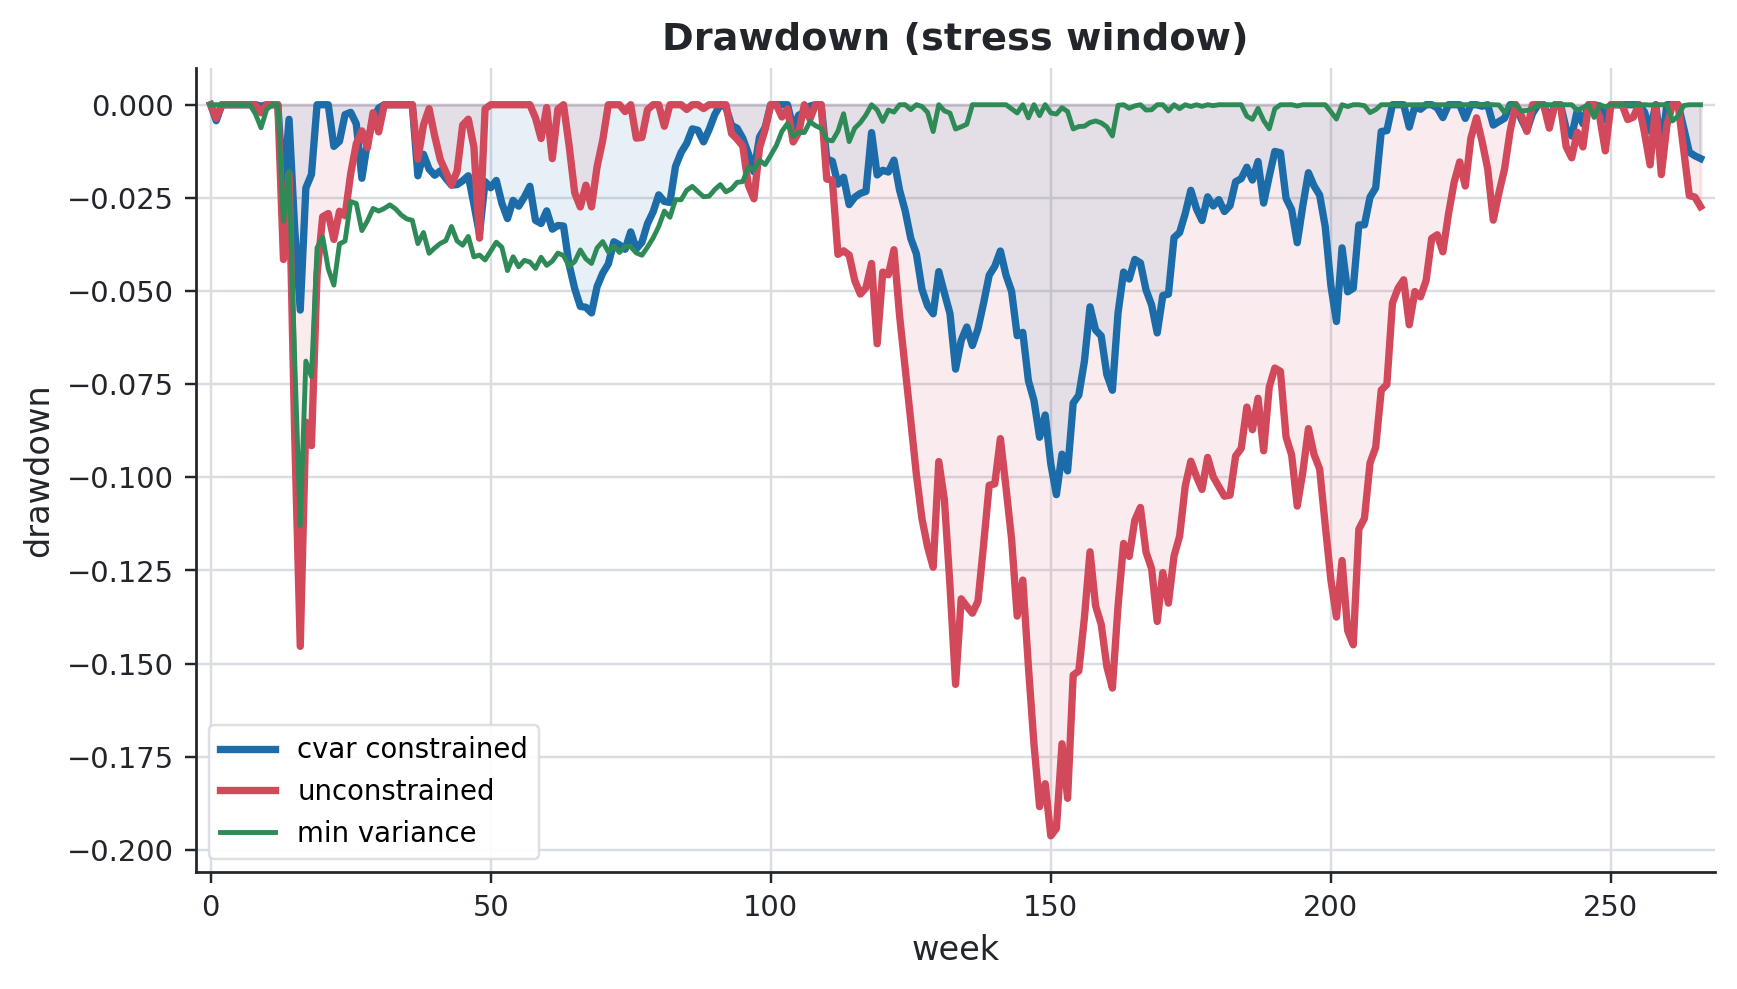
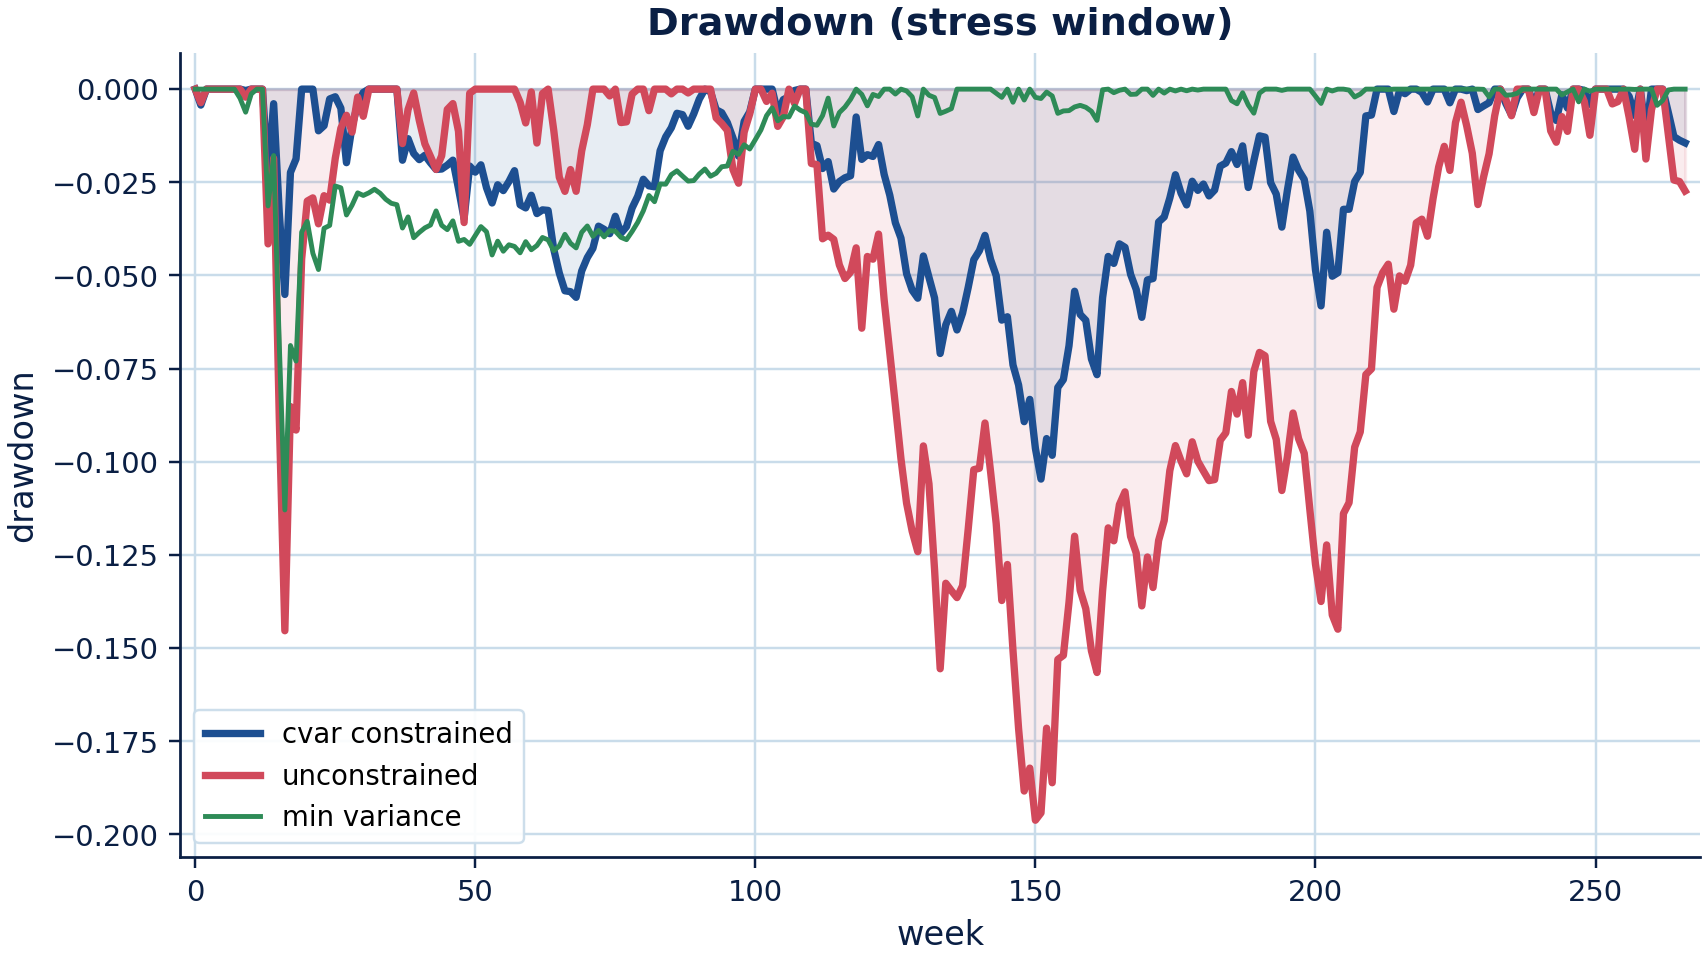
Columbia-themed figures + referee fixes; reconstruct CVaR hero figure
- Refined Columbia palette in plots.py (constrained allocator = Columbia navy,
  navy ink axes, Columbia-blue grid; semantic min-variance green / unconstrained red)
- Reconstruct figure_cvar_hero from authoritative table values (scripts/make_hero_figure.py)
- Regenerate all report figures; compact padding
- Paper: fix intro/Section 5 coupling-bug contradiction, colon-as-period copy-edit,
  table column-count fixes

Changed region(s): [[0.0, 0.0605, 0.9941, 0.9384], [0.3728, 0.0, 0.7456, 0.0605], [0.5281, 0.9384, 0.5903, 0.999]]

diff --git a/paper/main.tex b/paper/main.tex
@@ -76,18 +76,22 @@ to absorb, had no mechanical reason to rotate into Treasuries or cash when the V
 tripled overnight.  Absent a tail limit, the policy kept holding equities through
 the worst losses.  An otherwise-identical allocator carrying an explicit
 Conditional Value-at-Risk (CVaR) limit had already rotated into the cash/rates leg
-before the trough and emerged with roughly half the drawdown. 11.8\% peak-to-trough
+before the trough and emerged with roughly half the drawdown: 11.8\% peak-to-trough
 versus 20.6\% for its unconstrained twin (Table~\ref{tab:stress}).
 
 That difference is a result, not the headline. An explicit CVaR constraint is
 a safety layer that cuts tail losses of a \emph{learned} allocator without
 sacrificing risk-adjusted return.  There is, however, a catch.  In the first
 model-free implementation we tried, a standard Lagrangian
-actor--critic, the constraint was completely inert.  The Lagrange multiplier stayed pinned near zero,
-so the constrained policy collapsed onto its unconstrained twin.  The culprit is a subtle scale mismatch that we describe,
-name, and fix in Section~\ref{sec:coupling}. It is likely present in any
-Lagrangian RL system that standardises the return advantage but not the cost
-advantage.
+actor--critic, the \emph{dual channel was inert}: the Lagrange multiplier stayed
+pinned near zero, so the constraint exerted no explicit tail pressure through the
+mechanism that was supposed to enforce it. The culprit is a subtle scale mismatch
+that we describe, name, and fix in Section~\ref{sec:coupling}. It is likely present
+in any Lagrangian RL system that standardises the return advantage but not the cost
+advantage. (As Section~\ref{sec:coupling} shows, the constrained \emph{architecture}
+still regularises the tail through its safety-critic and projection structure even
+when the multiplier is inert; the policies are \emph{not} numerically identical, but
+the Lagrangian mechanism itself never engages.)
 
 Reinforcement learning for portfolio allocation is usually evaluated on return
 or Sharpe ratio, with risk handled implicitly.  Practitioners, however, manage
@@ -168,7 +172,7 @@ representation admits a convex LP (we include this as a baseline) and a differen
 penalty via \texttt{topk}.
 
 \paragraph{RL for portfolio management}
-The dominant pattern in RL-for-portfolio literature is. Train on a single historical
+The dominant pattern in RL-for-portfolio literature is to train on a single historical
 window, evaluate on one held-out test split, and compare against equal-weight or
 buy-and-hold.
 Jiang et al.~\cite{jiang2017deep} introduce the EIIE architecture for cryptocurrency
@@ -230,8 +234,8 @@ weights $w_t$ on the long-only simplex. The environment projects $w_t$ onto the
 admissible set $\mathcal{W}$ (max weight 0.40, turnover cap 0.50, optional cash
 floor), charges proportional cost $c\lVert w_t - w_{t-1}\rVert_1$ ($c=5$\,bps), and
 realises $r_t = w_t^{\top}\rho_t - c\lVert w_t - w_{t-1}\rVert_1$, where $\rho_t$
-are next-week asset returns. Features at $t$ use only $\rho_{<t}$ (no look-ahead.
-Enforced by tests).
+are next-week asset returns. Features at $t$ use only $\rho_{<t}$ (no look-ahead;
+enforced by tests).
 
 \paragraph{Constrained objective (CMDP)} A \emph{constrained Markov Decision
 Process} (CMDP)~\cite{achiam2017cpo} augments the standard MDP with one or more
@@ -268,7 +272,7 @@ problem.
 $\mathcal{L}$ is a differentiable function of the rollout, so the policy is trained
 by exact back-propagation through the simplex map and the reward, no score-function
 estimator. With net returns $r_t = w_t^{\top}\rho_t - c\lVert w_t-w_{t-1}\rVert_1$
-and tail set $\mathcal{T}=\{t. R_t \text{ among the worst } \lceil(1-\alpha)T\rceil
+and tail set $\mathcal{T}=\{t: R_t \text{ among the worst } \lceil(1-\alpha)T\rceil
 \text{ of the window}\}$,
 \begin{equation}
 \frac{\partial \mathcal{L}}{\partial \theta}
@@ -294,9 +298,9 @@ anchor (a strong, regime-robust prior). Training learns a state-dependent tilt.
 Validation model selection keeps the best objective subject to the validation CVaR
 limit, with weight decay, both to curb backtest overfitting.
 
-\paragraph{Baselines} Deterministic, re-estimated weekly. Cash, equal weight,
+\paragraph{Baselines} Deterministic, re-estimated weekly: cash, equal weight,
 inverse vol, minimum variance, mean--variance, risk parity, and a min-CVaR
-Rockafellar--Uryasev LP~\cite{rockafellar2000optimization}. Learned. Model-free
+Rockafellar--Uryasev LP~\cite{rockafellar2000optimization}. Learned: model-free
 A2C, PPO~\cite{schulman2017ppo} (clipped surrogate, GAE) and SAC~\cite{haarnoja2018soft}
 (off-policy, twin critics, auto-tuned entropy), and the unconstrained differentiable
 allocator ($\lambda=0$).
@@ -310,7 +314,7 @@ otherwise, using the existing OOS paths without any refitting.
 
 \emph{Threshold sensitivity.} Because the switch depends on two labelling
 thresholds, we sweep them ($\text{vol-quantile}\in\{0.65,\dots,0.85\}$,
-$\text{selloff}\in\{-0.04,-0.05,-0.06\}$. 15 configurations, no retraining). The
+$\text{selloff}\in\{-0.04,-0.05,-0.06\}$; 15 configurations, no retraining). The
 hybrid beats pure min-variance in \textbf{10/15} configurations (mean Sharpe gain
 $+0.077$) and is \emph{robust across the entire volatility-quantile axis}, it wins
 at every cutoff from $0.65$ to $0.85$ when the selloff threshold is $-0.04$ or
@@ -332,7 +336,7 @@ finding.  The scale mismatch IS confirmed. With the misscaled learning rate
 theoretical prediction that the dual cannot bind when cost and reward advantages
 are on different scales.  Two fixes scale the dual correctly. Standardise the cost
 advantage to the reward-advantage scale, and drive $\lambda$ with a \textbf{breach
-indicator} against a breach-rate budget.  Formally.
+indicator} against a breach-rate budget.  Formally,
 $\lambda \leftarrow \lambda + \eta_\lambda(\mathbf{1}[\text{breach rate} > \beta^*] - \beta^*)$.
 The multiplier then reaches $O(1)$.
 
@@ -413,8 +417,8 @@ Significance & 2000-sample block bootstrap (block 4), Wilcoxon, BH, Deflated-Sha
 Seven liquid ETFs spanning the major macro blocks, SPY (equity), TLT (rates), HYG
 (credit), DBC (commodity), GLD (gold), UUP (US dollar), BIL (cash), from Yahoo
 adjusted close, resampled to \textbf{887 weekly returns, 2008--2024}. Splits are
-chronological (train $\approx$2008--2018 incl.\ the GFC. Validation
-$\approx$2018--2021. Test $\approx$2021--2024). For the stress study we retrain on
+chronological (train $\approx$2008--2018 incl.\ the GFC; validation
+$\approx$2018--2021; test $\approx$2021--2024). For the stress study we retrain on
 2008--2018 and test on the 267-week window containing the 2020 COVID crash and the
 2022 selloff. Macro covariates (10y$-$3m term spread, VIX) are sourced from index
 proxies (\texttt{\^{}TNX$-$\^{}IRX}, \texttt{\^{}VIX}). A FRED loader is also
@@ -476,7 +480,7 @@ better. Best in bold. Constraint violations are hard CVaR-limit breaches per run
 The constrained allocator eliminates them entirely.}
 \label{tab:stress}
 \small
-\begin{tabular}{lrrrr}
+\begin{tabular}{lrrr}
 \toprule
 metric & unconstr. & \textbf{constr.} & change \\
 \midrule
@@ -641,7 +645,7 @@ universe & folds & $\mathrm{CVaR}_{99}^{\text{unc}}$ & $\mathrm{CVaR}_{99}^{\tex
 \midrule
 macro ETF (7)   & 20 & 0.0143 & 0.0102 &  9/20 & 0.0077              & 0.997 \\
 sector (10)     & 20 & 0.0336 & 0.0250 & 17/20 & 0.0003              & 0.990 \\
-\textbf{pooled} & 40 &, &, & 26/40 & $\mathbf{8.8\times10^{-6}}$ &, \\
+\textbf{pooled} & 40 & --- & --- & 26/40 & $\mathbf{8.8\times10^{-6}}$ & --- \\
 \bottomrule
 \end{tabular}
 \end{table}

diff --git a/scripts/make_hero_figure.py b/scripts/make_hero_figure.py
@@ -1,0 +1,110 @@
+"""Reconstruct the CVaR hero figure (figure_cvar_hero) in the Columbia theme.
+
+Two risk--return panels (x = CVaR99 in %, axis inverted so *right = safer*;
+y = annualised Sharpe):
+  (a) Stress window 2020--2022: the constrained allocator moves up-and-right of the
+      unconstrained learner (higher Sharpe, lower tail), competitive with min-variance.
+  (b) Ablation: tightening the tail budget improves BOTH CVaR and Sharpe monotonically.
+
+All coordinates are the authoritative values committed in the paper tables
+(Tables: stress window, tuned model-free, ablation, walk-forward), so the figure is
+consistent with the text by construction. Colours come from the shared
+``crlpa.evaluation.plots`` palette so the hero matches every other figure
+(constrained = Columbia navy, unconstrained = red, min-variance = green).
+
+    python scripts/make_hero_figure.py
+"""
+from __future__ import annotations
+
+import sys
+from pathlib import Path
+
+import matplotlib
+matplotlib.use("Agg")
+import matplotlib.pyplot as plt
+
+ROOT = Path(__file__).resolve().parents[1]
+sys.path.insert(0, str(ROOT / "src"))
+from crlpa.evaluation.plots import _COLORS, _INK, set_style  # noqa: E402
+
+OUT = ROOT / "paper" / "figures" / "figure_cvar_hero.png"
+
+C_CON = _COLORS["rl_cvar_constrained"]   # Columbia navy (ours)
+C_UNC = _COLORS["rl_unconstrained"]      # red
+C_MV = _COLORS["min_variance"]           # green
+C_PPO = _COLORS["ppo_best_unconstrained"]  # orange
+C_EW = _COLORS["equal_weight"]           # blue-grey
+
+# --- Panel (a): stress-window (Sharpe, CVaR99 %) from the paper tables ---------
+STRESS = {  # name: (CVaR99_pct, Sharpe, colour, marker, size)
+    "Unconstrained RL": (6.47, 0.63, C_UNC, "o", 150),
+    "PPO (best)": (7.00, 0.67, C_PPO, "s", 110),
+    "Min-Variance": (4.40, 0.90, C_MV, "^", 150),
+    "CVaR-Constrained RL": (3.27, 0.88, C_CON, "D", 200),
+}
+
+# --- Panel (b): ablation (tighten the budget) + min-variance reference ---------
+ABLATION = [  # (label, CVaR99_pct, Sharpe)
+    ("budget loose", 4.93, 0.515),
+    ("base", 3.01, 0.865),
+    ("budget tight", 1.35, 1.272),
+]
+MV_REF = (1.06, 1.45)  # walk-forward min-variance (Sharpe 1.45, CVaR99 1.06%)
+
+
+def main() -> None:
+    set_style()
+    fig, (axA, axB) = plt.subplots(1, 2, figsize=(11.0, 4.4))
+
+    # ---- Panel (a) -----------------------------------------------------------
+    for name, (cvar, sharpe, color, marker, size) in STRESS.items():
+        axA.scatter(cvar, sharpe, s=size, c=color, marker=marker,
+                    edgecolor=_INK, linewidth=0.6, zorder=3, label=name)
+    # arrow: unconstrained -> constrained
+    axA.annotate("", xy=(3.27, 0.88), xytext=(6.47, 0.63),
+                 arrowprops=dict(arrowstyle="->", color=C_CON, lw=1.8,
+                                 connectionstyle="arc3,rad=0.18"), zorder=2)
+    axA.text(3.05, 0.70,
+             "CVaR$_{99}$  $-49$%\nSharpe  $+40$%\nMax-DD  $-43$%\nViolations  $7.2\\!\\to\\!0$",
+             fontsize=8.5, color=_INK,
+             bbox=dict(boxstyle="round,pad=0.4", fc="white", ec=C_CON, lw=1.2))
+    axA.set_title("(a) Stress window (2020–2022 drawdowns)")
+    axA.set_xlabel("CVaR$_{99}$ (%)  $\\leftarrow$ lower tail risk is safer")
+    axA.set_ylabel("Annualised Sharpe ratio")
+    axA.invert_xaxis()
+    axA.legend(loc="best", fontsize=8, frameon=False)
+
+    # ---- Panel (b) -----------------------------------------------------------
+    xs = [c for _, c, _ in ABLATION]
+    ys = [s for _, _, s in ABLATION]
+    axB.plot(xs, ys, color=C_CON, lw=2.0, zorder=2,
+             marker="D", markersize=9, markeredgecolor=_INK, markeredgewidth=0.6,
+             label="constrained RL (tightening)")
+    for label, cvar, sharpe in ABLATION:
+        axB.annotate(label, (cvar, sharpe), fontsize=8.5, color=_INK,
+                     xytext=(6, -12), textcoords="offset points")
+    axB.scatter(MV_REF[0], MV_REF[1], s=150, c=C_MV, marker="^",
+                edgecolor=_INK, linewidth=0.6, zorder=3, label="min-variance (classical)")
+    axB.annotate("min-variance", MV_REF, fontsize=8.5, color=_INK,
+                 xytext=(6, 6), textcoords="offset points")
+    axB.text(4.4, 1.18,
+             "Tightening the tail budget\nimproves BOTH CVaR$_{99}$\nand Sharpe (monotone)",
+             fontsize=8.5, color=_INK,
+             bbox=dict(boxstyle="round,pad=0.4", fc="white", ec=C_MV, lw=1.0))
+    axB.set_title("(b) Ablation: tighter constraint $\\to$ better outcomes")
+    axB.set_xlabel("CVaR$_{99}$ (%)  $\\leftarrow$ lower tail risk is safer")
+    axB.set_ylabel("Annualised Sharpe ratio")
+    axB.invert_xaxis()
+    axB.legend(loc="best", fontsize=8, frameon=False)
+
+    fig.suptitle("CVaR constraint as a safety layer for learned allocators",
+                 fontsize=13, fontweight="bold", color=_INK)
+    fig.tight_layout(rect=(0, 0, 1, 0.96))
+    OUT.parent.mkdir(parents=True, exist_ok=True)
+    fig.savefig(OUT, dpi=200, facecolor="white")
+    plt.close(fig)
+    print("wrote", OUT)
+
+
+if __name__ == "__main__":
+    main()

diff --git a/src/crlpa/evaluation/plots.py b/src/crlpa/evaluation/plots.py
@@ -14,19 +14,19 @@ import pandas as pd  # noqa: E402
 # Curated, color-blind-friendly palette; protagonists get saturated hues,
 # baselines stay muted so the eye lands on the learner vs. the optimiser.
 _COLORS = {
-    "rl_cvar_constrained": "#1b6ca8",   # ours (constrained)
+    "rl_cvar_constrained": "#1D4F91",   # ours (constrained) — Columbia navy, the protagonist
     "rl_unconstrained": "#d1495b",      # ours (unconstrained)
     "min_variance": "#2e8b57",          # the optimiser that wins OOS
     "cvar_optimizer": "#3aa37a",
     "inverse_vol": "#9b8bd6",
-    "equal_weight": "#9aa0a6",
+    "equal_weight": "#8895a7",          # blue-grey (harmonised with Columbia palette)
     "ppo_best_unconstrained": "#e8853a",
     "ppo_best_cvar_constrained": "#3bb3c3",
     "sac_best_unconstrained": "#b3a829",
     "sac_best_cvar_constrained": "#cf6fae",
 }
-_GRID = "#d9dde2"
-_INK = "#22262b"
+_GRID = "#C9DCEA"  # light Columbia blue grid
+_INK = "#0A1F44"   # deep Columbia navy ink (axes / text)
 
 
 def set_style() -> None:
@@ -57,6 +57,7 @@ def set_style() -> None:
         "figure.dpi": 120,
         "savefig.dpi": 220,
         "savefig.bbox": "tight",
+        "savefig.pad_inches": 0.03,
     })
 
 
